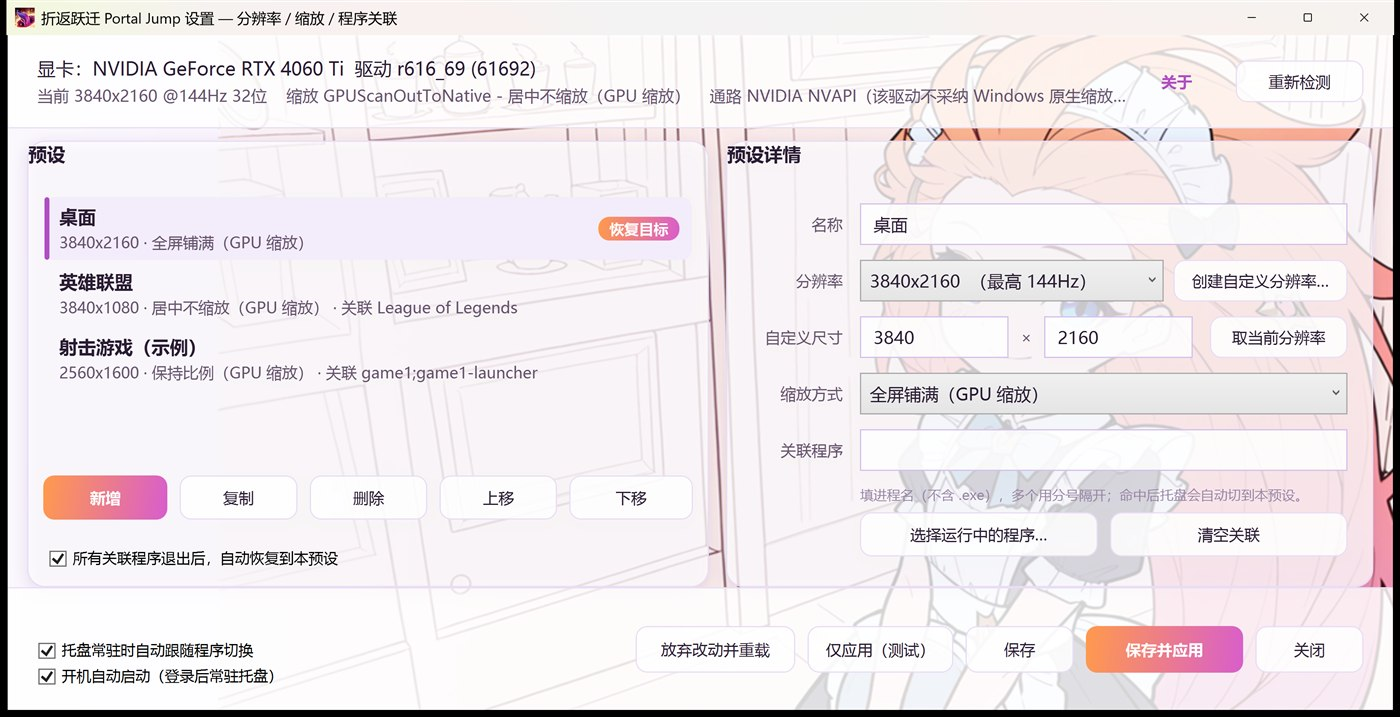
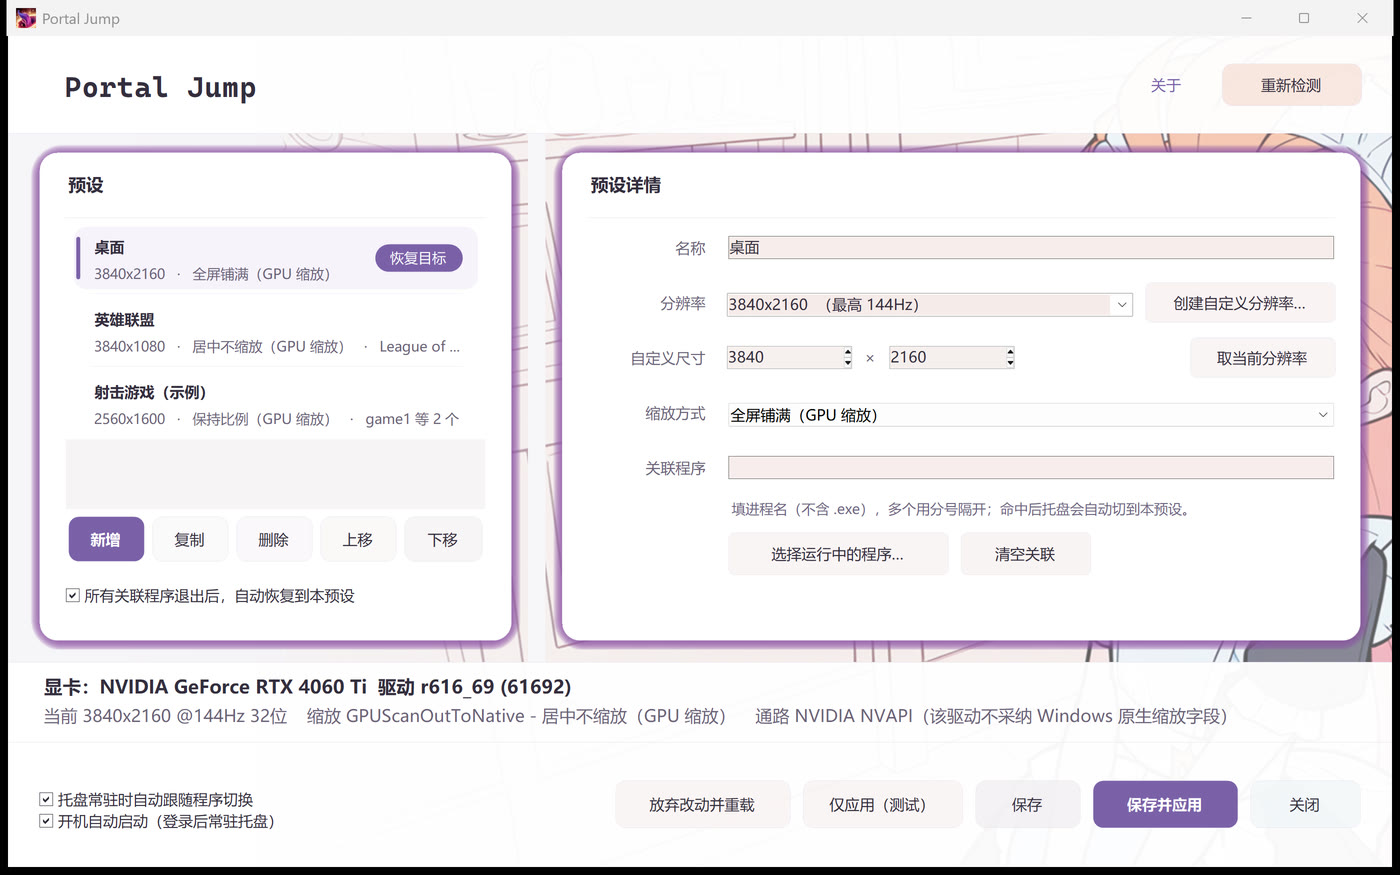
docs: 预览图与说明文档同步到 v0.21 界面
预览图：
- 重拍设置界面（docs/screenshot-settings.jpg），反映淡色系配色、
  品牌标识加粗、按钮右对齐、设备信息移到底部栏
- 新增创建自定义分辨率窗口截图（docs/screenshot-custom.jpg）
- 删除过时的 screenshot-custom.png 原始大图

README：
- 设置界面图宽度 720 → 820，补充图注
- 新增「自定义分辨率」一节，配窗口截图

使用说明（三版）：
- 界面元素表「顶部状态条」→「顶部品牌区」
  （设备信息已移到底部独立栏，顶部只留程序名与操作按钮）
- FAQ 中「设置界面的顶部状态条也会显示」→「设置界面底部的参数栏」

diff --git a/README.md b/README.md
@@ -4,7 +4,11 @@
 > 打开游戏自动切到游戏分辨率，退出后自动切回桌面。
 
 <p align="center">
-  <img src="docs/screenshot-settings.jpg" alt="设置界面" width="720">
+  <img src="docs/screenshot-settings.jpg" alt="设置界面" width="820">
+</p>
+
+<p align="center">
+  <sub>设置界面：左侧预设列表，右侧预设详情与当前显卡状态</sub>
 </p>
 
 ---
@@ -83,6 +87,19 @@ presets.example.ini + 图标素材
 **建议先做这一步**：NVIDIA 控制面板 →「显示」→「调整桌面尺寸和位置」，
 取消勾选「覆盖由游戏和程序设置的缩放模式」，点应用。
 不做这步可能分辨率能切但缩放不变——这是 NVIDIA 上最常见的坑。
+
+---
+
+## 自定义分辨率
+
+列表里没有想要的分辨率时，用「创建自定义分辨率…」交给驱动新建一个。
+先试用，画面正常再保留；失败不会留下副作用。
+
+<p align="center">
+  <img src="docs/screenshot-custom.jpg" alt="创建自定义分辨率" width="620">
+</p>
+
+---
 
 ---
 
